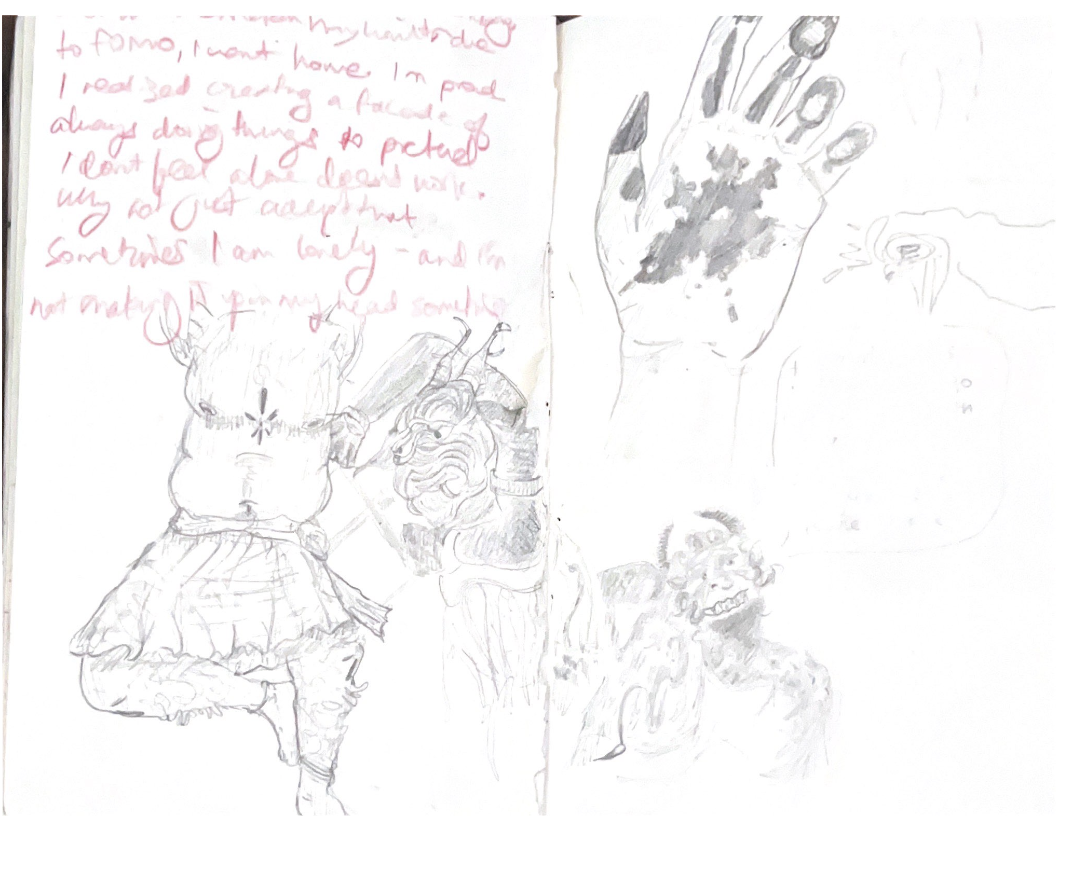
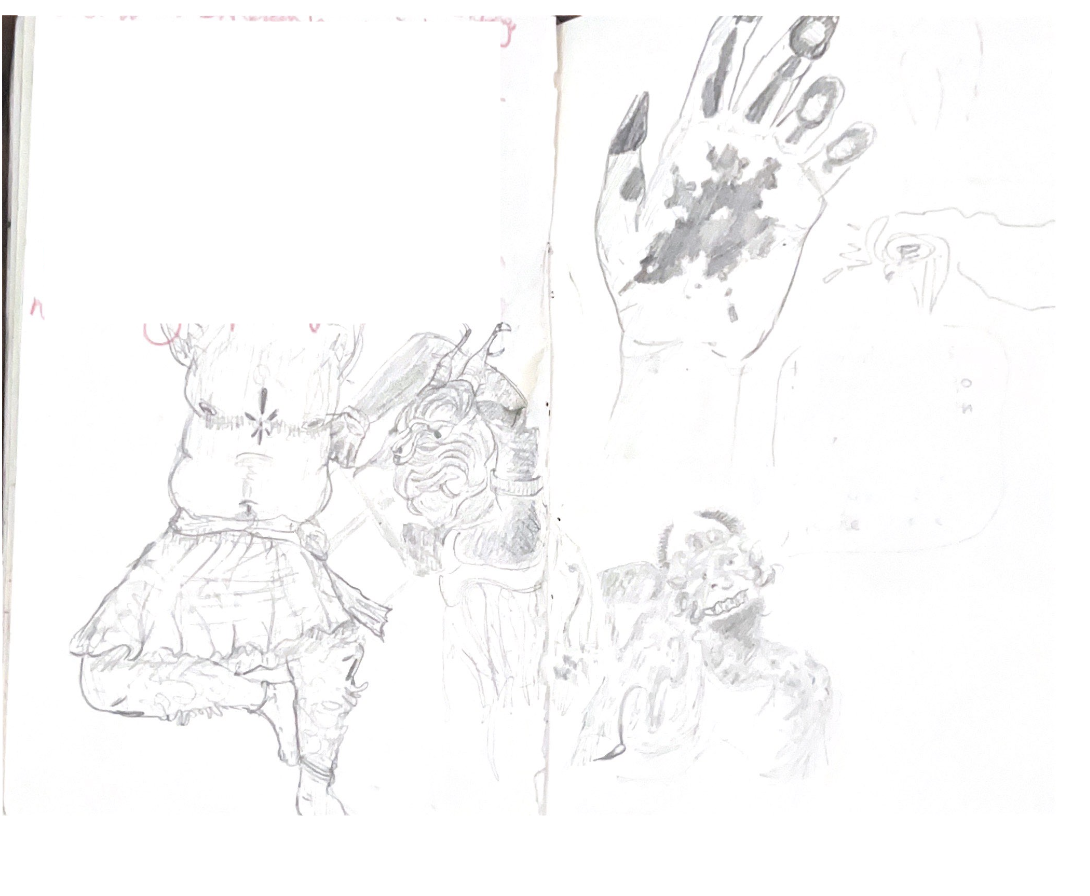
fix photo text

diff --git a/coding.js b/coding.js
@@ -30,7 +30,12 @@ const items = [
       images: ['secret-diary.gif'],
       description: 'dissapearing lemon diary...',
       imageStyling: 'short'
-    }
+    },
+    /* { name: 'pacziczi-strology',
+      images: [],
+      description: 'before entering into the world of pacziczi, read this <a href="https://www.pacziczi.glitch.me"> required reading</a>. Then, once finished delve into <a href="https://www.blueberry-rising.glitch.me">my website</a>',
+      imageStyling: 'short'
+    } */
 ]
 
 let div = ``;
